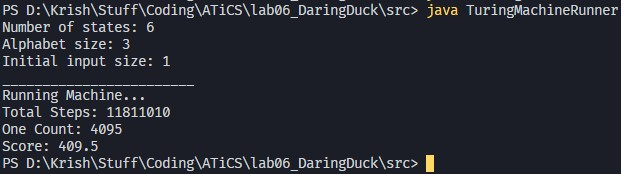
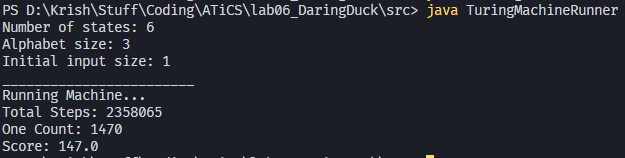
Update machine

Changed region(s): [[0.0, 0.481, 0.7037, 1.0], [0.0, 0.0, 1.0, 0.1266], [0.0, 0.1266, 0.2754, 0.4304]]

diff --git a/lab06_DaringDuck/src/TuringMachineRunner.java b/lab06_DaringDuck/src/TuringMachineRunner.java
@@ -3,31 +3,30 @@ public class TuringMachineRunner {
   public static final boolean debug = false;
 
   public static void main(String[] args) {
-    State A = new State("a", false);
-    State B = new State("b", false);
-    State C = new State("c", false);
-    State D = new State("d", false);
-    State E = new State("e", false);
-    State H = new State("h", true);
+    State s0 = new State("s0", false);
+    State s1 = new State("s1", false);
+    State s2 = new State("s2", false);
+    State s3 = new State("s3", false);
+    State s4 = new State("s4", false);
+    State HALT = new State("halt", true);
 
-    A.addTransition(new Transition('0', '1', Transition.Direction.RIGHT, B));
-    A.addTransition(new Transition('1', '1', Transition.Direction.RIGHT, A));
-    B.addTransition(new Transition('0', '0', Transition.Direction.LEFT, C));
-    B.addTransition(new Transition('1', '0', Transition.Direction.RIGHT, C));
-    C.addTransition(new Transition('0', '0', Transition.Direction.LEFT, H));
-    C.addTransition(new Transition('1', '1', Transition.Direction.RIGHT, D));
-    D.addTransition(new Transition('0', '1', Transition.Direction.LEFT, E));
-    D.addTransition(new Transition('1', '1', Transition.Direction.RIGHT, B));
-    E.addTransition(new Transition('0', '1', Transition.Direction.LEFT, A));
-    E.addTransition(new Transition('1', '1', Transition.Direction.LEFT, E));
+    s0.addTransition(new Transition('0', '0', Transition.Direction.RIGHT, s3));
+    s0.addTransition(new Transition('1', '0', Transition.Direction.LEFT, s2));
+    s1.addTransition(new Transition('0', '1', Transition.Direction.RIGHT, s4));
+    s1.addTransition(new Transition('1', '0', Transition.Direction.LEFT, HALT));
+    s2.addTransition(new Transition('0', '1', Transition.Direction.LEFT, s0));
+    s2.addTransition(new Transition('1', '0', Transition.Direction.LEFT, s4));
+    s3.addTransition(new Transition('0', '1', Transition.Direction.RIGHT, s2));
+    s3.addTransition(new Transition('1', '1', Transition.Direction.RIGHT, s1));
+    s4.addTransition(new Transition('0', '1', Transition.Direction.LEFT, s0));
+    s4.addTransition(new Transition('1', '1', Transition.Direction.RIGHT, s0));
 
-    State[] states = { A, B, C, D, E, H };
+    State[] states = { s0, s1, s2, s3, s4, HALT };
     char[] alphabet = { '0', '1', ' ' };
     Tape tape = new Tape("0");
 
     StateMachine machine = new StateMachine(states, tape, alphabet);
     machine.run();
-    System.out.println("Total Steps: " + machine.totalSteps);
     System.out.println("One Count: " + machine.oneCount());
     System.out.println("Score: " + machine.score());
   }

diff --git a/lab06_DaringDuck/src/StateMachine.java b/lab06_DaringDuck/src/StateMachine.java
@@ -4,7 +4,6 @@ public class StateMachine {
     public Tape tape;
     public char[] alphabet;
     public int initialInputSize;
-    public int totalSteps;
 
     public StateMachine(State[] states, Tape tape, char[] alphabet) {
         this.states = states;
@@ -26,7 +25,6 @@ public class StateMachine {
     }
 
     public void step() {
-        this.totalSteps++;
         char input = this.tape.read();
         Transition transition = this.currentState.getTransition(input);
         this.tape.write(transition.getWrite());
